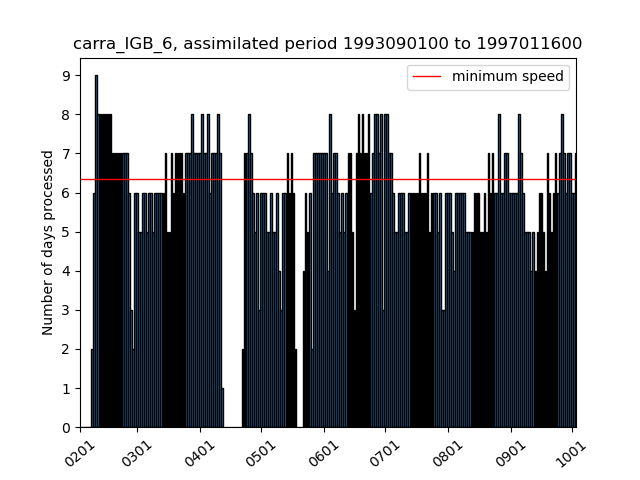
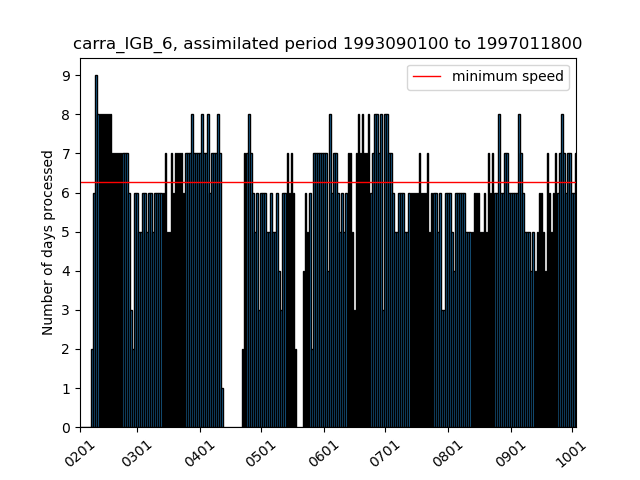
update repo

Changed region(s): [[0.125, 0.3438, 0.9062, 0.4062], [0.8438, 0.0625, 0.875, 0.0938]]

diff --git a/current_state_sims.html b/current_state_sims.html
@@ -2,18 +2,18 @@
 <h1>Estimated completion dates and simulation speeds</h1>
 <p>Stream (production) completion date based on 30d (7d) moving avg speed</p>
 <p><a href="https://docs.google.com/document/d/1zDKAxuEXYnWWYzT3SZnZwY5WW8nodUMeYRjAGz46coc/edit#">Details of the calculation of the completion dates</a></p>
-<p>Last update: 2021/10/04 06:42:21 UTC</p>
+<p>Last update: 2021/10/04 12:40:55 UTC</p>
 <p>Total progress CARRA: 99.44% <a href="https://hirlam.org/portal/CARRA/Progress/GanntChart_CARRA.html"> (see detailed progress meter in Gantt chart) </a></p>
 <p>Total progress PANARCTIC: 91.67% </p>
 <p><a href="https://hirlam.org/portal/CARRA/Progress/waiting_times.html"> Queue waiting times for all streams</a></p>
 <p><a href="https://hirlam.org/portal/CARRA/Progress/mars_status.html"> MARS archive throughput </a></p>
 <html><table border="1"><tr><th>expId</th><th>Current assimilated date</th><th>End date of stream </th><th> Completion date</th><th> Avg. throughput (7d) </th> <th>Avg. throughput (30d) </th> <th> Remarks</tr>
-<tr bgcolor="#FFFF00"><td>carra_NE_3</td><td>2021063000</td><td>2021063021</td><td>2021100406</td><td>(0.0) days/day</td><td>(3.3) days/day</td><td>Inactive the past week</tr>
+<tr bgcolor="#FFFF00"><td>carra_NE_3</td><td>2021063000</td><td>2021063021</td><td>2021100412</td><td>(0.0) days/day</td><td>(3.3) days/day</td><td>Inactive the past week</tr>
 <tr bgcolor="#33FF38"><td>carra_NE_4</td><td>1992090100</td><td>1992083021</td><td>Finished on 20210824</td><td>(0.0) days/day</td><td>(0.0) days/day</td><td>Stream finished</tr>
 <tr bgcolor="#33FF38"><td>carra_NE_5</td><td>1994090100</td><td>1994083021</td><td>Finished on 20210824</td><td>(0.0) days/day</td><td>(0.0) days/day</td><td>Stream finished</tr>
-<tr bgcolor="#33FF38"><td>carra_NE_6</td><td>1997070100</td><td>1997063021</td><td>2021100321</td><td>(0.0) days/day</td><td>(2.6) days/day</td><td>Stream finished</tr>
-<tr bgcolor="#FFFF00"><td>carra_IGB_3</td><td>2021063000</td><td>2021063021</td><td>2021100406</td><td>(0.0) days/day</td><td>(3.2) days/day</td><td>Inactive the past week</tr>
-<tr bgcolor="#33FF38"><td>carra_IGB_4</td><td>1992090100</td><td>1992083021</td><td>2021100113</td><td>(0.0) days/day</td><td>(0.73) days/day</td><td>Stream finished</tr>
-<tr bgcolor="#33FF38"><td>carra_IGB_5</td><td>1994090100</td><td>1994083021</td><td>2021100319</td><td>(0.0) days/day</td><td>(4.2) days/day</td><td>Stream finished</tr>
-<tr bgcolor="#FFFFFF"><td>carra_IGB_6</td><td>1997011600</td><td>1997063021</td><td>2021103122</td><td>(6.57) days/day</td><td>(5.97) days/day</td><td></tr>
-<tr bgcolor="#FFFFFF"><td>carra_pan</td><td>2018082015</td><td>2018090100</td><td>2021100718</td><td>(3.57) days/day</td><td>(3.43) days/day</td><td></tr>
+<tr bgcolor="#33FF38"><td>carra_NE_6</td><td>1997070100</td><td>1997063021</td><td>2021100403</td><td>(0.0) days/day</td><td>(2.6) days/day</td><td>Stream finished</tr>
+<tr bgcolor="#FFFF00"><td>carra_IGB_3</td><td>2021063000</td><td>2021063021</td><td>2021100412</td><td>(0.0) days/day</td><td>(3.2) days/day</td><td>Inactive the past week</tr>
+<tr bgcolor="#33FF38"><td>carra_IGB_4</td><td>1992090100</td><td>1992083021</td><td>2021100119</td><td>(0.0) days/day</td><td>(0.73) days/day</td><td>Stream finished</tr>
+<tr bgcolor="#33FF38"><td>carra_IGB_5</td><td>1994090100</td><td>1994083021</td><td>2021100401</td><td>(0.0) days/day</td><td>(4.2) days/day</td><td>Stream finished</tr>
+<tr bgcolor="#FFFFFF"><td>carra_IGB_6</td><td>1997011800</td><td>1997063021</td><td>2021103120</td><td>(6.57) days/day</td><td>(5.97) days/day</td><td></tr>
+<tr bgcolor="#FFFFFF"><td>carra_pan</td><td>2018082112</td><td>2018090100</td><td>2021100717</td><td>(3.57) days/day</td><td>(3.43) days/day</td><td></tr>
